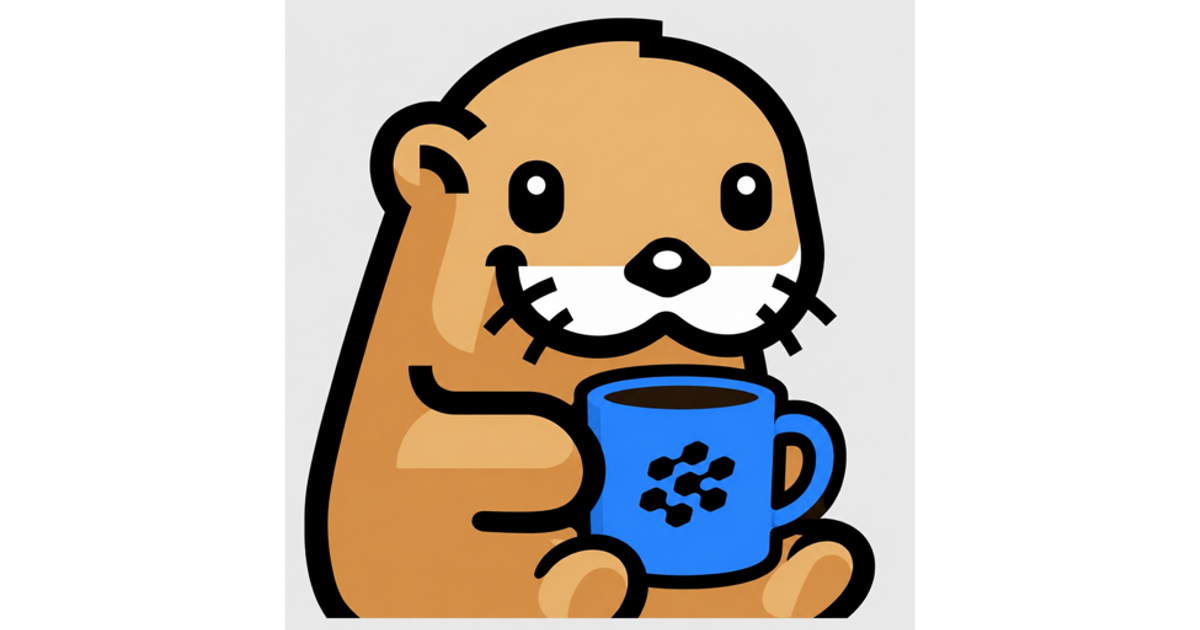
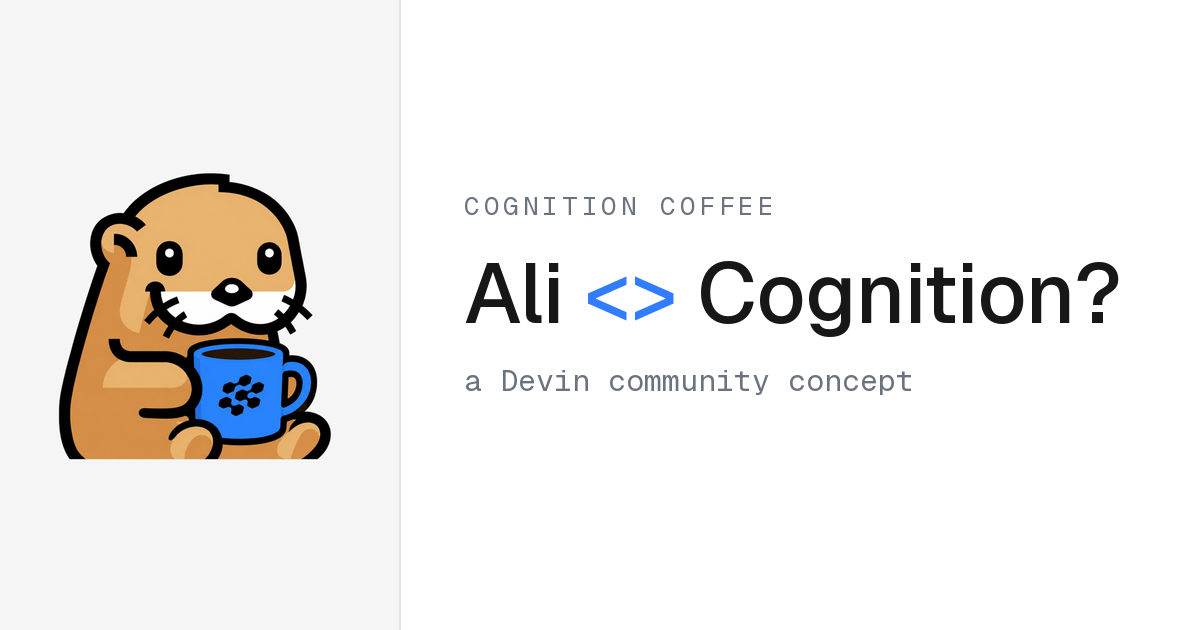
feat(seo): new Ali <> Cognition? link-preview image + concept tagline

diff --git a/src/components/SEO.tsx b/src/components/SEO.tsx
@@ -28,7 +28,7 @@ export const SEO: React.FC<Props> = ({ title, description, pathname, children })
     title: title ? `${title} · ${meta.title}` : meta.title,
     description: description || meta.description,
     url: `${meta.siteUrl}${pathname || ""}`,
-    image: `${meta.siteUrl}/og.png`,
+    image: `${meta.siteUrl}/og.png?v=2`,
   }
 
   return (
@@ -40,6 +40,9 @@ export const SEO: React.FC<Props> = ({ title, description, pathname, children })
       <meta property="og:type" content="website" />
       <meta property="og:url" content={seo.url} />
       <meta property="og:image" content={seo.image} />
+      <meta property="og:image:width" content="1200" />
+      <meta property="og:image:height" content="630" />
+      <meta property="og:image:alt" content="Ali <> Cognition? — Cognition Coffee, a Devin community concept" />
       <meta name="twitter:card" content="summary_large_image" />
       <meta name="twitter:creator" content={meta.author} />
       <meta name="twitter:image" content={seo.image} />

diff --git a/gatsby-config.ts b/gatsby-config.ts
@@ -7,7 +7,7 @@ import type { GatsbyConfig } from "gatsby"
  */
 const config: GatsbyConfig = {
   siteMetadata: {
-    title: "Cognition Coffee - Community for Devin Builders",
+    title: "Cognition Coffee, a Devin community concept",
     description:
       "Curriculum, meetups, and ambassadors for developers building with Devin.",
     siteUrl: "https://cognitioncoffee.co",
